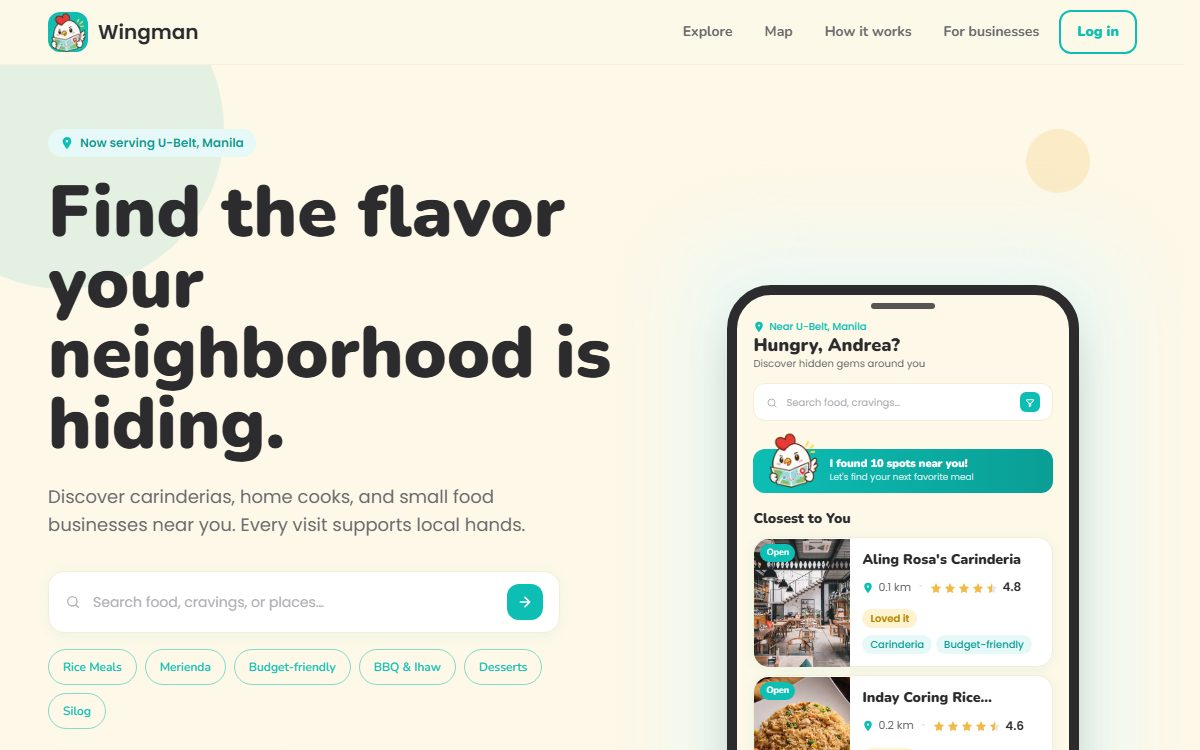
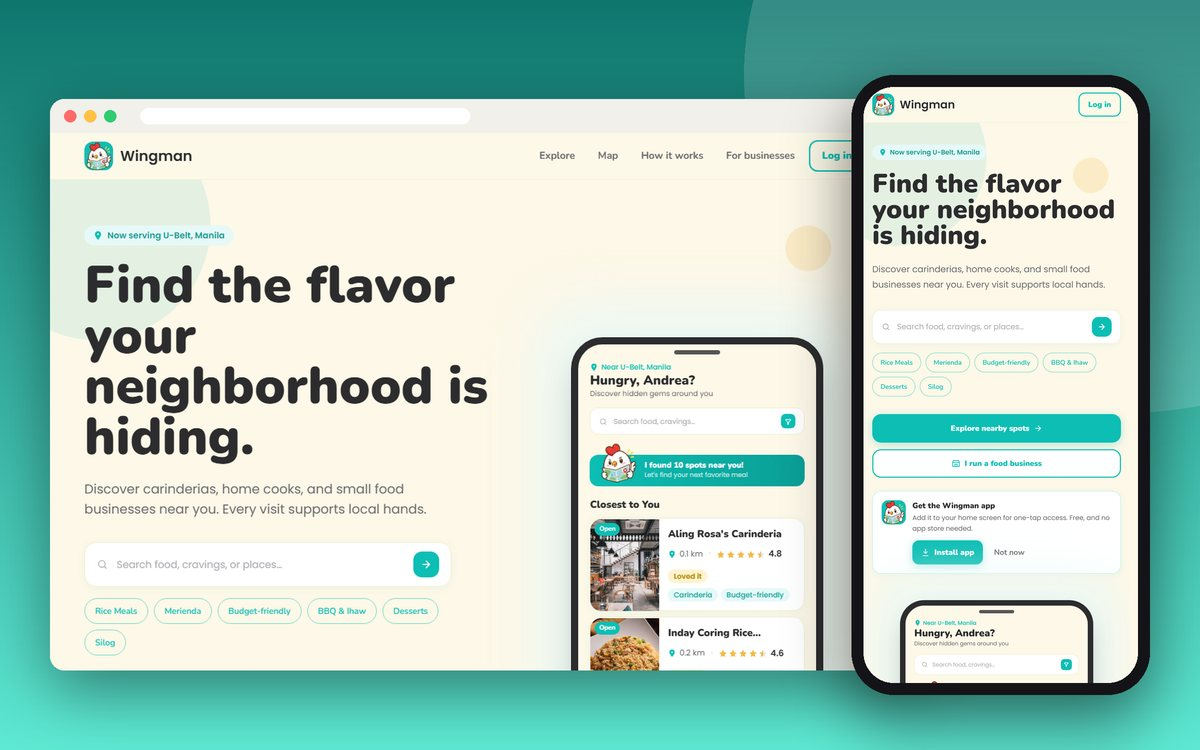
Refactor code structure for improved readability and maintainability

diff --git a/index.html b/index.html
@@ -126,7 +126,7 @@
 
         <!-- EDIT: Short intro (1–2 sentences) -->
         <p class="hero__intro reveal">
-          I'm a 4th-year BSIT student at the University of the East, certified as an IT Specialist in networking, cybersecurity, and cloud computing. I fix PCs, printers, and peripherals, and I've helped build two web systems as part of a team.
+          I'm a 4th-year BSIT student at the University of the East, certified as an IT Specialist in networking, cybersecurity, and cloud computing. I fix PCs, printers, and peripherals, and I was the lead full-stack developer on my capstone, a barangay management system.
         </p>
 
         <div class="hero__cta reveal">
@@ -280,18 +280,23 @@
           <!-- ---------- PROJECT 1: BMS Ermitaño (private repo, so no GitHub link) ---------- -->
           <article class="project reveal">
             <div class="project__media">
-              <!-- EDIT: Add a screenshot of the system (16:10, e.g. 1200x750) as assets/project-bms.jpg and update src -->
-              <img src="assets/project-1.svg" alt="Screenshot of the Barangay Ermitaño Management System" width="1200" height="750" loading="lazy" decoding="async">
+              <img src="assets/project-bms.jpg" alt="Barangay Ermitaño resident portal on desktop and mobile, showing service tiles for RBI, certificates, complaints, household, and inquiries" width="1200" height="750" loading="lazy" decoding="async">
             </div>
             <div class="project__body">
-              <p class="project__meta">Capstone · Team of 4 · 2025–2026</p>
+              <p class="project__meta">Capstone · Team of 5 · 2025–2026</p>
               <h3 class="project__title">Barangay Ermitaño Management System</h3>
               <p class="project__desc">
                 A web system for Barangay Ermitaño, San Juan City, with public, resident, and admin portals for resident records, household profiling, certificate and permit requests, and complaint/blotter cases.
               </p>
               <p class="project__desc">
-                <strong>My part:</strong> built much of the resident portal, the English/Tagalog toggle, household registration with validation, and the socioeconomic profiling report with PDF and CSV export.
+                <strong>My role:</strong> Lead / Full-stack Developer (400+ commits)
               </p>
+              <ul class="project__list">
+                <li>Led the mobile experience: built the resident portal's mobile-first layout, dashboard, and its RBI, certificate, complaint, permit, and household modules.</li>
+                <li>Built admin features for announcements, officials, audit logs, and household approvals.</li>
+                <li>Created the socioeconomic profiling report with charts and PDF/CSV export.</li>
+                <li>Added English/Tagalog support, form validation, and in-app notifications.</li>
+              </ul>
               <ul class="tags" aria-label="Technologies used">
                 <li>PHP</li>
                 <li>MySQL</li>
@@ -307,7 +312,7 @@
           <!-- ---------- PROJECT 2: Wingman (private repo, so no GitHub link) ---------- -->
           <article class="project reveal">
             <div class="project__media">
-              <img src="assets/project-wingman.jpg" alt="Wingman homepage: a food discovery app with a search bar and a phone mockup listing nearby carinderias" width="1200" height="750" loading="lazy" decoding="async">
+              <img src="assets/project-wingman.jpg" alt="Wingman homepage on desktop and mobile: a food discovery app with a search bar and food category filters" width="1200" height="750" loading="lazy" decoding="async">
             </div>
             <div class="project__body">
               <p class="project__meta">Team project · 2026</p>
@@ -316,7 +321,7 @@
                 A food-discovery app for finding carinderias, home cooks, and small food businesses nearby, with reviews and a dashboard for business owners.
               </p>
               <p class="project__desc">
-                <strong>My part:</strong> built the business page tabs, QR code generation with printable templates, and the settings pages, and restyled the app to match the Figma design.
+                <strong>My part:</strong> built most of the mobile front end, taking it from Figma wireframes to a working, deployed app, including the business page tabs, QR code generation with printable templates, and the settings pages.
               </p>
               <ul class="tags" aria-label="Technologies used">
                 <li>TypeScript</li>
@@ -357,7 +362,7 @@
                 <h4 class="timeline__title">BS Information Technology</h4>
                 <p class="timeline__org">University of the East</p>
                 <ul class="timeline__list">
-                  <li>Capstone: Barangay Ermitaño Management System, built with a team of four.</li>
+                  <li>Capstone: Barangay Ermitaño Management System. Lead / Full-stack Developer on a team of five.</li>
                   <li>OJT (on-the-job training) in the second semester, starting January 2027.</li>
                 </ul>
               </li>
@@ -444,9 +449,9 @@
               </a>
             </li>
             <li>
-              <a class="contact-link" href="https://www.linkedin.com/in/gabriel-wayne-estrada-1213621b5" target="_blank" rel="noopener noreferrer">
+              <a class="contact-link" href="https://www.linkedin.com/in/gabriel-wayne-estrada" target="_blank" rel="noopener noreferrer">
                 <svg class="icon" aria-hidden="true"><use href="#icon-linkedin"/></svg>
-                <span>linkedin.com/in/gabriel-wayne-estrada-1213621b5</span>
+                <span>linkedin.com/in/gabriel-wayne-estrada</span>
                 <span class="sr-only">(opens in a new tab)</span>
               </a>
             </li>
@@ -502,7 +507,7 @@
           </a>
         </li>
         <li>
-          <a href="https://www.linkedin.com/in/gabriel-wayne-estrada-1213621b5" target="_blank" rel="noopener noreferrer" aria-label="LinkedIn (opens in a new tab)">
+          <a href="https://www.linkedin.com/in/gabriel-wayne-estrada" target="_blank" rel="noopener noreferrer" aria-label="LinkedIn (opens in a new tab)">
             <svg class="icon" aria-hidden="true"><use href="#icon-linkedin"/></svg>
           </a>
         </li>

diff --git a/css/style.css b/css/style.css
@@ -933,6 +933,27 @@ html:not(.js) .nav__toggle {
   color: var(--text);
 }
 
+.project__list {
+  display: grid;
+  gap: 0.4rem;
+  color: var(--text-muted);
+}
+
+.project__list li {
+  position: relative;
+  padding-left: 1.25rem;
+}
+
+.project__list li::before {
+  content: "";
+  position: absolute;
+  top: 0.75em;
+  left: 0;
+  width: 8px;
+  height: 2px;
+  background: var(--accent);
+}
+
 .project__links {
   display: flex;
   flex-wrap: wrap;

diff --git a/README.md b/README.md
@@ -15,7 +15,7 @@ A bold, fast, single-page portfolio built with plain HTML, CSS, and vanilla Java
 ├── js/main.js            Theme toggle, mobile menu, scroll effects, contact form.
 ├── assets/
 │   ├── profile.svg       Photo placeholder (replace with your photo)
-│   ├── project-1/2/3.svg Project image placeholders (replace with screenshots)
+│   ├── project-*.jpg     Project images (desktop + phone mockups, 1200×750)
 │   ├── resume.pdf        Placeholder resume (replace with yours, same name)
 │   ├── og-image.png      Image shown when your link is shared (1200×630)
 │   ├── favicon.svg/.png  Browser tab icon
@@ -53,7 +53,7 @@ Every placeholder is wrapped in square brackets. In VS Code, press **Ctrl+Shift+
 
 ### 2. Add your photo and project images
 - **Photo:** save your photo as `assets/profile.jpg`, then change `assets/profile.svg` to `assets/profile.jpg` in `index.html`. A portrait (4:5) or square photo around 800px wide works best.
-- **Projects:** save screenshots as `assets/project-1.jpg` and so on (16:10 ratio, about 1200×750), then update the `src` in each project card. Update the `alt` text to describe the image.
+- **Projects:** save screenshots as `assets/project-name.jpg` (16:10 ratio, about 1200×750), then update the `src` in the project card. Update the `alt` text to describe the image. Never include real people's personal data in a screenshot.
 - **Keep images small:** compress them at [squoosh.app](https://squoosh.app) (aim for under 200 KB each).
 
 ### 3. Add your resume

diff --git a/CLAUDE.md b/CLAUDE.md
@@ -13,6 +13,11 @@ Note: this repo is public and served as-is. Everything here, including this file
 - Projects from private repos get a `.project__note` ("Private repo…") instead of a GitHub link, so recruiters never hit a 404.
 - Only describe work the user did (check commit authorship before writing "My part" lines).
 
+## Facts confirmed with the user
+- BMS Ermitaño capstone: team of 5; Gabriel is Lead / Full-stack Developer (per the repo README Authors list). His commits use gabbrielwayne@gmail.com under several author names ("Gabriel:3", "Wabski", "gabs"), so match on that email, not the GitHub login.
+- LinkedIn: https://www.linkedin.com/in/gabriel-wayne-estrada/
+- His focus on both team projects is the mobile front end (BMS resident portal; Wingman from Figma wireframes to deployed). Project images are desktop+phone mockups built from screenshots. Never use screenshots that show real residents' personal data (PH Data Privacy Act).
+
 ## Still to fill in
 Photo, resume PDF, BMS screenshot (`assets/project-bms.jpg`), school start/graduation years, years for the family-business jobs. The user is undecided on a role, so the site targets OJT in IT support or web development. Don't add MedVantage (the user didn't work on it).
 
